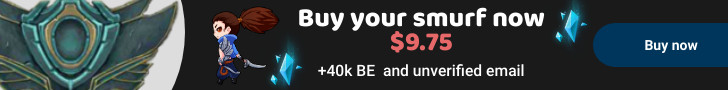
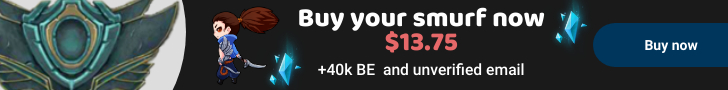
Update price

diff --git a/store/reducers/cartReducer.js b/store/reducers/cartReducer.js
@@ -1,16 +1,19 @@
 import { createStore, applyMiddleware } from 'redux';
-import { persistStore, persistReducer } from 'redux-persist' 
+//import { persistStore, persistReducer } from 'redux-persist' 
 import storage from 'redux-persist/lib/storage' // defaults to localStorage for web
 import { composeWithDevTools } from 'redux-devtools-extension';
 import thunkMiddleware from 'redux-thunk';
 import { FETCH_ACCOUNT, FETCH_ACCOUNTS_COUNTER,RESET } from "../actions/action-types/account-actions";
 
+/*
+Para que persista la tienda
+
 const persistConfig = {
     key: 'root',
     storage,
-    blacklist:['products']
+    blacklist:['products','addedItems','selectedProduct']
   }
-
+*/ 
 import { 
     ADD_TO_CART,
     REMOVE_ITEM,
@@ -31,7 +34,7 @@ const initState = {
         {
             id: 1,
             title: "EU WEST",
-            price: 9.25,
+            price: 13.99,
             image: require("../../assets/regions/demacia.jpg"),
             stock: 0,
             quantity: 0,
@@ -40,7 +43,7 @@ const initState = {
         {
             id: 2,
             title: "NA",
-            price: 9.25,
+            price: 13.99,
             image: require("../../assets/regions/Noxus.jpg"),
             stock: 0,
             quantity: 0,
@@ -49,7 +52,7 @@ const initState = {
         {
             id: 3,
             title: "EU NORDIC & EAST",
-            price: 9.25,
+            price: 13.99,
             image: require("../../assets/regions/flelyor.jpg"),
             stock: 0,
             quantity: 0,
@@ -58,7 +61,7 @@ const initState = {
         {
             id: 4,
             title: "TURKEY",
-            price: 9.25,
+            price: 13.99,
             image: require("../../assets/regions/Shuriman.jpg"),
             stock: 0,
             quantity: 0,
@@ -67,7 +70,7 @@ const initState = {
         {
             id: 5,
             title: "PBE",
-            price: 9.25,
+            price: 13.99,
             image: require("../../assets/regions/Piltober.jpg"),
             stock: 0,
             quantity: 0,
@@ -82,7 +85,7 @@ const initState = {
     selectedProduct: {
                         id: 2,
                         title: "NA",
-                        price: 9.25,
+                        price: 13.99,
                         image: require("../../assets/regions/Noxus.jpg"),
                         stock: 0,
                         quantity: 0,
@@ -301,10 +304,11 @@ const cartReducer = (state = initState, action) => {
         return state
     }
 }
-const  persistedReducer = persistReducer(persistConfig, cartReducer)
+//const  persistedReducer = persistReducer(persistConfig, cartReducer) Persisting
 export const initStore = (initialState = initState) => {
     return createStore(
-        persistedReducer,
+        //persistedReducer, //Persinting
+        cartReducer, //Borrar si quieres que persista
         initialState,
         composeWithDevTools(applyMiddleware(thunkMiddleware))
     )

diff --git a/pages/buy-lol-account-safe.js b/pages/buy-lol-account-safe.js
@@ -81,7 +81,7 @@ class BlogDetailsTwo extends Component {
                                     </p>
                                     <h3>Thanks for reading</h3>
                                     <p> Thanks for reading! If you are thinking about climbing in solo queue you should practice these champs in a league of legends smurf account,
-                                        so your main account's elo won't be affected by this. If you are thinking about getting one you can buy a lol smurf account for only $9.25 ! <Link href="/product-details">Just click here if you are interested</Link>
+                                        so your main account's elo won't be affected by this. If you are thinking about getting one you can buy a lol smurf account for only $13.99 ! <Link href="/product-details">Just click here if you are interested</Link>
                                     </p>
                                     <Link href="/">
                                         <img style={{marginBottom:'20px',cursor:'pointer'}} onClick={()=>{}} src={require("../assets/blog/buy-lol-smurf.jpg")} />

diff --git a/pages/best-champs-to-carry-low-elo.js b/pages/best-champs-to-carry-low-elo.js
@@ -242,7 +242,7 @@ class BlogDetailsTwo extends Component {
                                     
                                     <h3>Thanks for reading</h3>
                                     <p> Thanks for reading! If you are thinking about climbing in solo queue you should practice this champs in a smurf account,
-                                        so your main account's elo won't be affected by this. If you are thinking about getting one you can buy a smurf account for only $9.25 ! <Link href="/product-details">Just click here if you are interested</Link>
+                                        so your main account's elo won't be affected by this. If you are thinking about getting one you can buy a smurf account for only $13.99 ! <Link href="/product-details">Just click here if you are interested</Link>
                                     </p>
                                     <Link href="/product-details">
                                         <img style={{marginBottom:'20px',cursor:'pointer'}} onClick={()=>{}} src={require("../assets/blog/buy-lol-smurf.jpg")} />

diff --git a/pages/how-do-i-improve-faster-in-league-of-legends.js b/pages/how-do-i-improve-faster-in-league-of-legends.js
@@ -90,7 +90,7 @@ class BlogDetailsTwo extends Component {
 
                                     <h3>Thanks for reading</h3>
                                     <p> Thanks for reading! If you are thinking about climbing in solo queue you should practice these champs in a league of legends smurf account,
-                                        so your main account's elo won't be affected by this. If you are thinking about getting one you can buy a lol smurf account for only $9.25 ! <Link href="/product-details">Just click here if you are interested</Link>
+                                        so your main account's elo won't be affected by this. If you are thinking about getting one you can buy a lol smurf account for only $13.99 ! <Link href="/product-details">Just click here if you are interested</Link>
                                     </p>
                                     <Link href="/">
                                         <img style={{marginBottom:'20px',cursor:'pointer'}} onClick={()=>{}} src={require("../assets/blog/buy-lol-smurf.jpg")} />

diff --git a/components/Common/ArticleContent.js b/components/Common/ArticleContent.js
@@ -66,7 +66,7 @@ class ArticleContent extends Component {
             <h2>What is the best place to buy league smurfs?</h2>
             
             <p> Lol Smurf is the best site to buy lol accounts, over here in our lolsmurf shop, you can <b>buy your unranked league accounts
-                buy just $9.25! </b>Our cheap lol smurfs are also high quality, we can offer the accounts at that price because we already 
+                buy just $13.99! </b>Our cheap lol smurfs are also high quality, we can offer the accounts at that price because we already 
                 produce tons of them so we can afford to lower the price of our lol unranked accounts
             </p>
             

diff --git a/components/product-details/ProductContent.js b/components/product-details/ProductContent.js
@@ -110,7 +110,7 @@ class ProductContent extends Component {
                         <h3>{this.props.product.title} League of legends account</h3>
 
                         <div className="price">
-                            <span className="new-price"><del>$18.5</del> <span style={{color:'#c56161'}}>$9.25</span></span>
+                            <span className="new-price"><del>$27.98</del> <span style={{color:'#c56161'}}>$13.99</span></span>
                         </div>
 
                         <p>Fresh new League of legends acount (level 30), ideal for smurfing</p>

diff --git a/components/product-details/RelatedProducts.js b/components/product-details/RelatedProducts.js
@@ -120,7 +120,7 @@ class RelatedProducts extends Component {
                                                 </h3>
 
                                                 <div className="product-price">
-                                                    <span className="new-price">$9.25</span>
+                                                    <span className="new-price">$13.99</span>
                                                 </div>
                                                 
                                                 <Link href="#">

diff --git a/components/shop-style-four/OfferArea.js b/components/shop-style-four/OfferArea.js
@@ -12,7 +12,7 @@ class OfferArea extends Component {
                     <div className="container">
                         <div className="products-offer-content">
                             <span>Get the best deal!</span>
-                            <h1>$9.25</h1>
+                            <h1>$13.99</h1>
                             <p>for a fresh new lvl 30 account</p>
                             <Link href="/product-details">
                                 <a onClick={() => {                                 

diff --git a/pages/_document.js b/pages/_document.js
@@ -10,7 +10,6 @@ class MyDocument extends Document {
         return (
             <Html lang="en">
                 <Head>
-                    <script data-ad-client="ca-pub-2990372150294900" async src="https://pagead2.googlesyndication.com/pagead/js/adsbygoogle.js"></script>
                     <meta name="viewport" content="width=device-width, initial-scale=1, shrink-to-fit=no" />
                     <link rel="icon" type="image/png" href={require("../images/fabi.png")}></link>
                 </Head>

diff --git a/server.js b/server.js
@@ -52,7 +52,7 @@ app.prepare().then(() => {
         await stripe.charges.create({
             amount: req.body.amount,
             currency: 'usd',
-            description: 'React Next eCommerce Templates',
+            description: 'LOLSMURF',
             source: req.body.token.id
         });
         res.send({})
